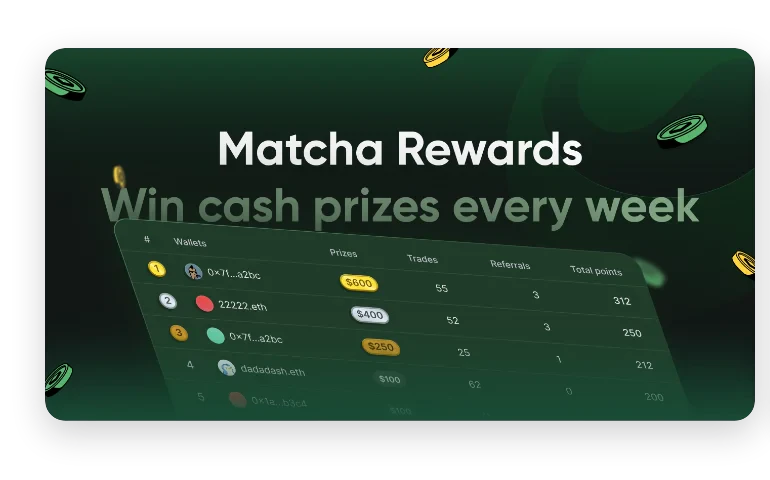
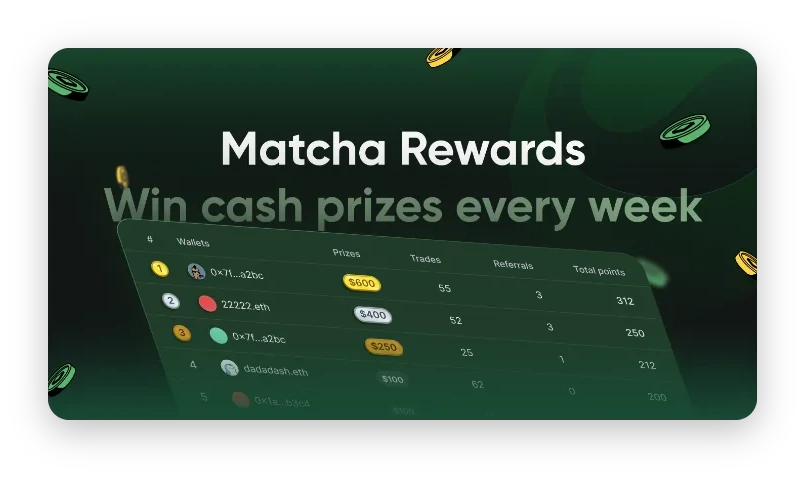
Blend Matcha artwork into its portfolio tile backgrounds
The contained exports left visible inner rectangles where their edges
met the card backgrounds. Repaint the dark exports to rgb(63 62 68), use
rgb(231 231 233) for the light cards, and anchor Pro to the bottom so its
workspace edge does not leave an unmatched band underneath.

Pad the Rewards exports to 805px wide so their shadows fade before the
file boundary, regenerate responsive variants, and adjust the banner
placement to preserve its visible size. Keep image metadata, the design
inventory, and geometry checks aligned with the artwork.

diff --git a/src/styles/work-grid.css b/src/styles/work-grid.css
@@ -1175,9 +1175,12 @@
 
 /* These compositions already supply their own framing. Family Stories keeps
    its devices on the bottom edge; Rewards supplies two independent banners;
-   Token and Pro extend their own backdrop across the card below. */
+   Token, Pro, Trade, and Mobile extend their own backdrop across the card
+   below. */
 .mosaic-row-item-fit-contain .mosaic-row-card-preview-family-stories,
 .mosaic-row-item-fit-contain .mosaic-row-card-preview-matcha-rewards,
+.mosaic-row-item-fit-contain .mosaic-row-card-preview-shot-1,
+.mosaic-row-item-fit-contain .mosaic-row-card-preview-shot-14,
 .mosaic-row-item-fit-contain .mosaic-row-card-preview-shot-21,
 .mosaic-row-item-fit-contain .mosaic-row-card-preview-shot-23,
 .mosaic-row-item-fit-contain .mosaic-row-card-preview-shot-9,
@@ -1197,18 +1200,43 @@
   object-position: center bottom;
 }
 
-/* These two 4:3 exports carry the same dark vertical backdrop around their UI.
-   Continue that backdrop across the card instead of framing the export in the
-   generic pale tile surface. The image remains contained, so neither the token
-   workspace nor Matcha Pro loses product chrome at a differently shaped slot. */
+/* These two 4:3 exports carry the same dark backdrop around their UI. Continue
+   that backdrop across the card instead of framing the export in the generic
+   pale tile surface. The image remains contained, so neither the token
+   workspace nor Matcha Pro loses product chrome at a differently shaped slot.
+
+   One flat colour, not a ramp: the exports themselves were repainted to hold
+   rgb(63 62 68) all the way around their windows (they used to carry a vertical
+   gradient of their own), so whichever edge a slot letterboxes against, the
+   card meets the same value the image already has there. */
 .mosaic-row-card-preview-shot-21,
 .mosaic-row-card-preview-shot-23 {
-  background: linear-gradient(
-    to bottom,
-    rgb(74 66 87) 0%,
-    rgb(63 62 68) 50%,
-    rgb(38 38 46) 100%
-  );
+  background: rgb(63 62 68);
+}
+
+/* Matcha Pro is wider than its slot, so a centred export leaves a band under it
+   whose colour cannot match the export's own bottom edge -- the rails there are
+   lighter than the workspace between them. Sitting it on the bottom edge spends
+   the whole leftover height above the image instead, where a single flat colour
+   does match, and the workspace reads as continuing past the card. */
+.mosaic-row-item-fit-contain .mosaic-row-card-preview-shot-23 {
+  place-items: end center;
+}
+
+/* The other two closing tiles are the same situation in the light half of the
+   set: both 4:3 exports sit on a flat rgb(231 231 233) that runs to all four
+   edges of the file, five levels off --mosaic-card-surface. Contained inside
+   the pale mat that was close enough to read as one surface at a glance and
+   wrong enough to read as a rectangle drawn inside the card once you looked.
+   Painting the card the export's own value removes the inner edge, so the
+   letterbox above and below the artwork is the artwork's backdrop continuing.
+
+   Not cover: the closing slots are wider than 4:3, and filling them would cut
+   the tab row off the trade module and the top and bottom off all three
+   phones. */
+.mosaic-row-card-preview-shot-1,
+.mosaic-row-card-preview-shot-14 {
+  background: rgb(231 231 233);
 }
 
 /* Rewards owns two complete campaign deliverables. Positioning them as two
@@ -1222,9 +1250,14 @@
   display: block;
 }
 
+/* Both exports carry their drop shadow in the file, on a canvas padded far
+   enough for it to fade out on every side. The banner itself is 88% of that
+   canvas, so these boxes run wider than the artwork and their insets are pulled
+   in to compensate -- the banners land where they always have, and the shadow
+   no longer meets a hard edge at the file boundary. */
 .mosaic-row-card-preview-matcha-rewards .mosaic-row-media-pair .mosaic-row-media {
   position: absolute;
-  width: 68%;
+  width: 71%;
   max-width: none;
   height: auto;
   max-height: none;
@@ -1233,11 +1266,11 @@
 
 .mosaic-row-card-preview-matcha-rewards .mosaic-row-media-pair .mosaic-row-media:first-child {
   top: 3%;
-  left: 2%;
+  left: 1.7%;
 }
 
 .mosaic-row-card-preview-matcha-rewards .mosaic-row-media-pair .mosaic-row-media:last-child {
-  right: 2%;
+  right: 1.8%;
   bottom: 3%;
 }
 
@@ -1303,6 +1336,8 @@
 
   .mosaic-row-item-fit-contain .mosaic-row-card-preview-family-stories,
   .mosaic-row-item-fit-contain .mosaic-row-card-preview-matcha-rewards,
+  .mosaic-row-item-fit-contain .mosaic-row-card-preview-shot-1,
+  .mosaic-row-item-fit-contain .mosaic-row-card-preview-shot-14,
   .mosaic-row-item-fit-contain .mosaic-row-card-preview-shot-21,
   .mosaic-row-item-fit-contain .mosaic-row-card-preview-shot-23,
   .mosaic-row-item-fit-contain .mosaic-row-card-preview-shot-9,

diff --git a/src/components/DesignSystemPage.tsx b/src/components/DesignSystemPage.tsx
@@ -1965,7 +1965,7 @@ export function DesignSystemPage({ links, name }: DesignSystemPageProps) {
                   Controls suppress native tap highlights and text selection while preserving keyboard focus rings.
                   The shell reserves 6rem plus the safe area so the control clears the final content.
                 </li>
-                <li data-ds-terms={terms("mosaic organic grid named groups opening portraits offset closing desktop container cqw 3fr 6fr 3fr 3fr 5fr 4fr 5fr 7fr 1fr 260px 320px 420px 536px 660px 600px 900px personal photos band compact two columns display contents protector quote span both 10px tablet 32px total inset 16px mobile gap 8px outer radius 16px 24px contain letterbox zero mat family stories rewards wallet homepage security token pro dark gradient background pair center bottom minmax(0, 1fr)")}>
+                <li data-ds-terms={terms("mosaic organic grid named groups opening portraits offset closing desktop container cqw 3fr 6fr 3fr 3fr 5fr 4fr 5fr 7fr 1fr 260px 320px 420px 536px 660px 600px 900px personal photos band compact two columns display contents protector quote span both 10px tablet 32px total inset 16px mobile gap 8px outer radius 16px 24px contain letterbox zero mat family stories rewards wallet homepage security token pro trade mobile flat backdrop rgb(63 62 68) rgb(231 231 233) background pair center bottom minmax(0, 1fr)")}>
                   <strong>The mosaic is four named groups.</strong> At 900px and above, Opening is a 3:6:3 row
                   and Closing is three equal columns; each is <code>clamp(260px, 28.075cqw, 420px)</code> tall.
                   Portraits uses 3:5:4 columns and two internal rows within
@@ -1981,14 +1981,18 @@ export function DesignSystemPage({ links, name }: DesignSystemPageProps) {
                   the gap is 16px and the shell supplies the 8px outer gutter. Every compact tile uses a 16px radius;
                   desktop tiles use 24px. Contained artwork letterboxes inside the card: the card's grid
                   gets one <code>minmax(0, 1fr)</code> track so the media's <code>max-height: 100%</code> has a definite
-                  height to resolve against, and the inset drops to <code>0.375rem</code>. Seven compositions remove the
-                  pale mat entirely: Family Stories, Matcha Rewards, Matcha Token, Matcha Pro, Wallet, Homepage, and
+                  height to resolve against, and the inset drops to <code>0.375rem</code>. Nine compositions remove the
+                  pale mat entirely: Family Stories, Matcha Rewards, Matcha Token, Matcha Pro, Matcha trade page,
+                  Matcha on mobile, Wallet, Homepage, and
                   Security. Family Stories anchors to <code>center bottom</code> so its devices meet the lower edge.
                   Rewards positions its two complete banners independently — diagonal on desktop and stacked below
-                  900px — so their rounded ends remain inside the card at every slot ratio. Token and Pro keep their
-                  4:3 exports contained while the card continues the artwork&rsquo;s sampled dark vertical gradient from
-                  <code>rgb(74 66 87)</code> through <code>rgb(63 62 68)</code> to <code>rgb(38 38 46)</code>, making
-                  the whole surface read as one background without cropping product chrome. Wallet, Homepage, and
+                  900px — so their rounded ends remain inside the card at every slot ratio. Token, Pro, the trade page,
+                  and Matcha on mobile keep their 4:3 exports contained while the card is painted the flat colour the
+                  export already holds at its own edges — <code>rgb(63 62 68)</code> for the two dark workspaces,
+                  <code>rgb(231 231 233)</code> for the two light ones — so the letterbox reads as the artwork&rsquo;s
+                  backdrop continuing rather than a rectangle drawn inside the card, and no product chrome is cropped
+                  at a differently shaped slot. Pro sits on the bottom edge, the one edge where its flat value matches
+                  the export&rsquo;s own; the other three centre. Wallet, Homepage, and
                   Security rely on the framing already present in their files; Security is the third clip with zero
                   extra mat.
                 </li>

diff --git a/tests/e2e/organic-grid.spec.ts b/tests/e2e/organic-grid.spec.ts
@@ -138,7 +138,10 @@ test("separates Rewards artwork and extends Matcha product backgrounds", async (
   for (const name of [/Open Matcha token page/, /Open Matcha Pro/]) {
     const card = page.getByRole("link", { name })
     await expect(card).toHaveCSS("padding", "0px")
-    expect(await card.evaluate(element => getComputedStyle(element).backgroundImage)).not.toBe("none")
+    // One flat colour, matching the value the repainted exports hold around
+    // their windows -- a ramp of any kind would only meet the image at one row.
+    await expect(card).toHaveCSS("background-image", "none")
+    await expect(card).toHaveCSS("background-color", "rgb(63, 62, 68)")
 
     const [cardBox, mediaBox] = await Promise.all([card.boundingBox(), card.locator("img").boundingBox()])
     expect(cardBox).not.toBeNull()
@@ -148,4 +151,36 @@ test("separates Rewards artwork and extends Matcha product backgrounds", async (
     expect(mediaBox!.x + mediaBox!.width).toBeLessThanOrEqual(cardBox!.x + cardBox!.width + 1)
     expect(mediaBox!.y + mediaBox!.height).toBeLessThanOrEqual(cardBox!.y + cardBox!.height + 1)
   }
+
+  // The other two closing tiles are the same fix on the light side: both
+  // exports sit on a flat rgb(231 231 233) that is five levels off the pale
+  // card surface, close enough to blend at a glance and wrong enough to draw a
+  // rectangle inside the card once seen.
+  for (const name of [/Open Matcha trade page/, /Open Matcha on mobile/]) {
+    const card = page.getByRole("link", { name })
+    await card.scrollIntoViewIfNeeded()
+    await expect(card).toHaveCSS("padding", "0px")
+    await expect(card).toHaveCSS("background-image", "none")
+    await expect(card).toHaveCSS("background-color", "rgb(231, 231, 233)")
+
+    const [cardBox, mediaBox] = await Promise.all([card.boundingBox(), card.locator("img").boundingBox()])
+    expect(cardBox).not.toBeNull()
+    expect(mediaBox).not.toBeNull()
+    // Contained, not cropped to fill: the closing slots are wider than 4:3, and
+    // covering them would cut the tab row off the trade module.
+    expect(mediaBox!.width).toBeGreaterThanOrEqual(cardBox!.width - 2)
+    expect(mediaBox!.height).toBeLessThanOrEqual(cardBox!.height + 1)
+  }
+
+  // Matcha Pro is wider than its slot, so it sits on the card's bottom edge and
+  // spends the leftover height above the image, where the flat card colour is
+  // the export's own backdrop rather than the dark workspace inside it.
+  const proCard = page.getByRole("link", { name: /Open Matcha Pro/ })
+  const [proCardBox, proMediaBox] = await Promise.all([
+    proCard.boundingBox(),
+    proCard.locator("img").boundingBox(),
+  ])
+  expect(proMediaBox!.y + proMediaBox!.height).toBeGreaterThan(
+    proCardBox!.y + proCardBox!.height - 2,
+  )
 })

diff --git a/src/data/portfolio.ts b/src/data/portfolio.ts
@@ -486,13 +486,13 @@ export const portfolioCards: PortfolioCard[] = [
       {
         source: "/Projects/matcha-rewards-link-preview.webp",
         label: "Matcha Rewards link preview",
-        width: 770,
+        width: 805,
         height: 480,
       },
       {
         source: "/Projects/matcha-rewards-countdown.webp",
         label: "Matcha Rewards countdown post",
-        width: 770,
+        width: 805,
         height: 480,
       },
     ],
